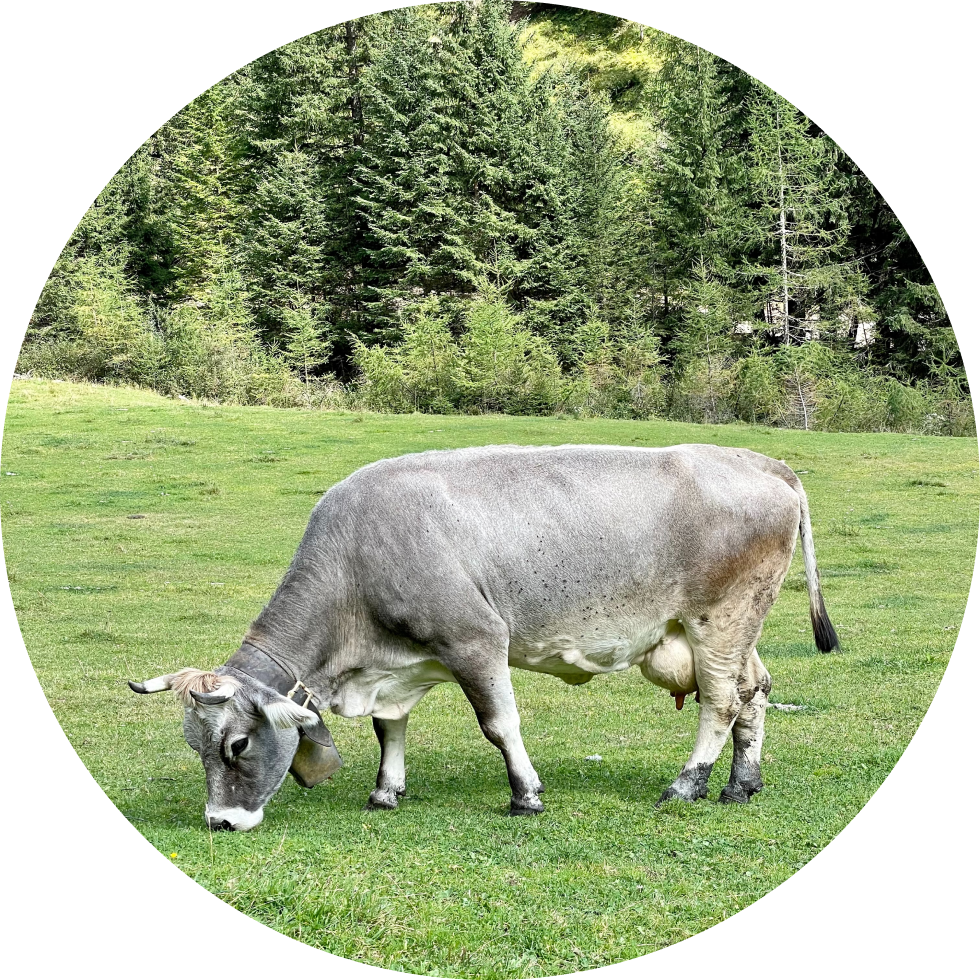
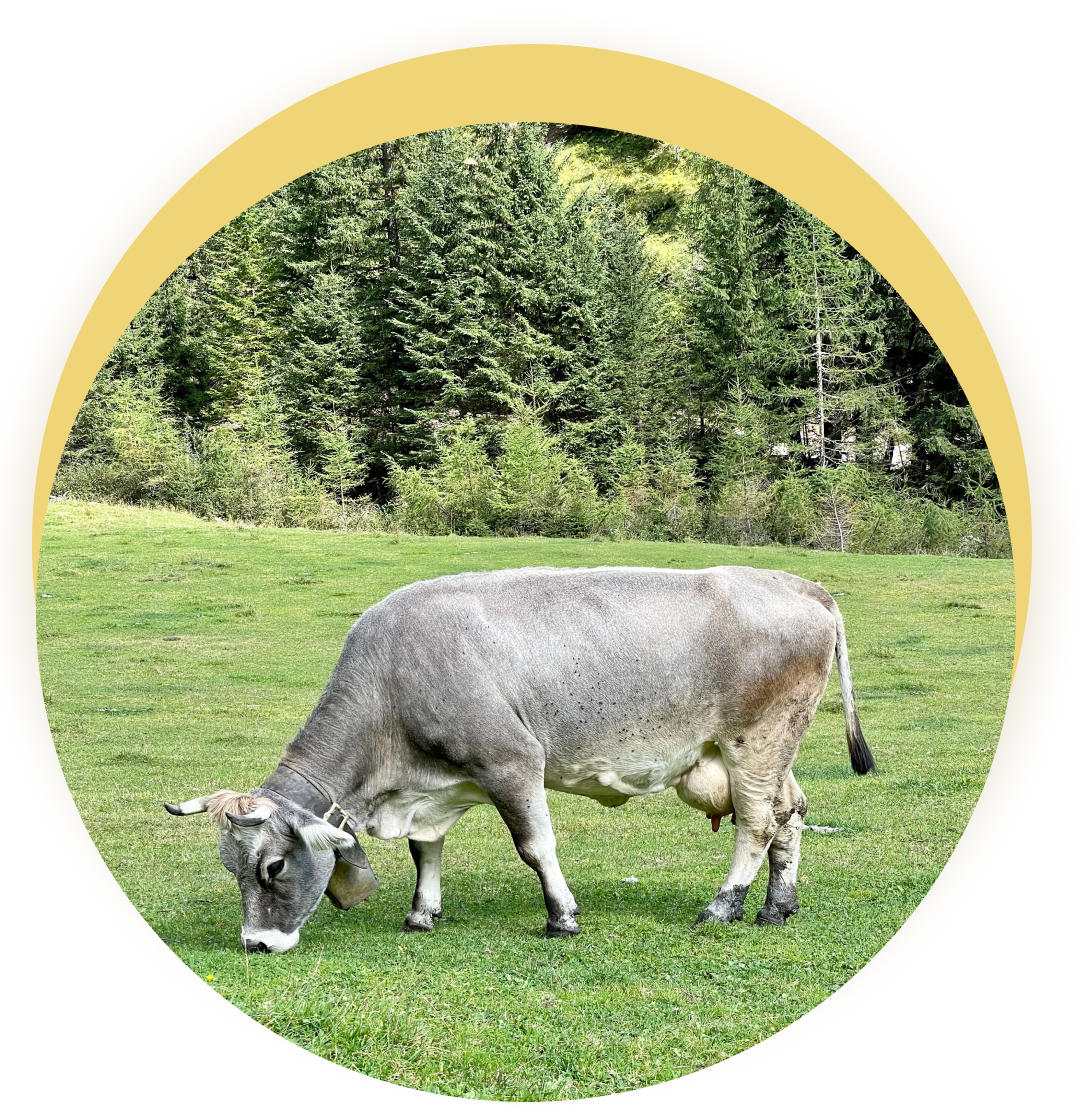
about-flex

diff --git a/src/sass/layout/_04-about.scss b/src/sass/layout/_04-about.scss
@@ -25,7 +25,6 @@
 .about__title {
     margin-left: auto;
     margin-right: auto;
-
     font-family: 'Seymour One';
     font-weight: 400;
     font-size: 30px;
@@ -49,31 +48,35 @@
     }
 }
 
-.about__image {
-    position: relative;
+.about__content {
+    @media screen and (min-width: 768px) {
+        display: flex;
+        gap: 32px;
+        
+    }
 
-    @media screen and (max-width: 768px) {
-        width: 100%;
+    @media screen and (min-width: 1280px) {
+        gap: 100px;
+        align-items: center;
     }
 }
 
-.about__background-image::before {
-    content: '';
-    position: absolute;
+.about__image {
     margin-left: auto;
     margin-right: auto;
-
-    top: -22px;
-
-    left: 50%;
-
-    transform: translate(-50%, 0) scale(1);
-    display: block;
-    width: 278px;
-    height: 278px;
-    border-radius: 100%;
-    background-image: linear-gradient(180deg, rgba(248, 210, 78, 0.7), rgba(248, 210, 78, 0.7), #D9D9D9);
+    @media screen and (max-width: 767px) {
+        width: 100%;
+        margin-bottom: 40px;
+    }
+        @media screen and (min-width: 768px) {
+            width: 336px;
+        }
+    
+        @media screen and (min-width: 1200px) {
+            width: 500px;
+        }
 }
+
 
 
 
@@ -83,16 +86,34 @@
     margin-left: auto;
     margin-right: auto;
     filter: drop-shadow(0px 4px 4px rgba(0, 0, 0, 0.25));
-    margin-left: auto;
-    margin-right: auto;
 
     @media screen and (max-width: 479px) {
         min-width: 278px;
     }
+         @media screen and (min-width: 768px) {
+             width: 336px;
+         }
+    
+         @media screen and (min-width: 1200px) {
+             width: 500px;
+         }
+}
+
+.about__production {
+    @media screen and (max-width: 767px) {
+         width: 100%;
+        }
+    
+        @media screen and (min-width: 768px) {
+            width: 336px;
+        }
+    
+        @media screen and (min-width: 1280px) {
+            width: 463px;
+        }
 }
 
 .about__production-text {
-
     font-weight: 400;
     font-size: 12px;
     line-height: 1.75;

diff --git a/src/partials/04-about.html b/src/partials/04-about.html
@@ -4,7 +4,7 @@
     <h2 class="about__title">how it’s made?</h2>
     <div class="about__content">
       <div class="about__image">
-        <picture class="about__background-image">
+        <picture>
           <source
             srcset="
               ../src/images/about/desktop/cow.png    1x,
